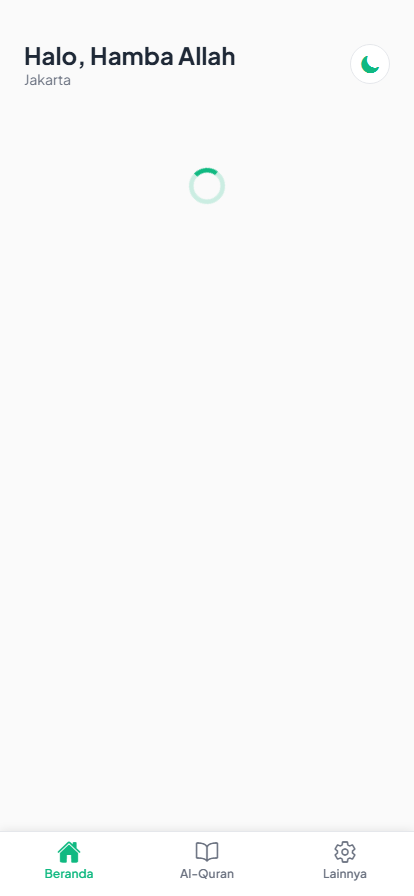
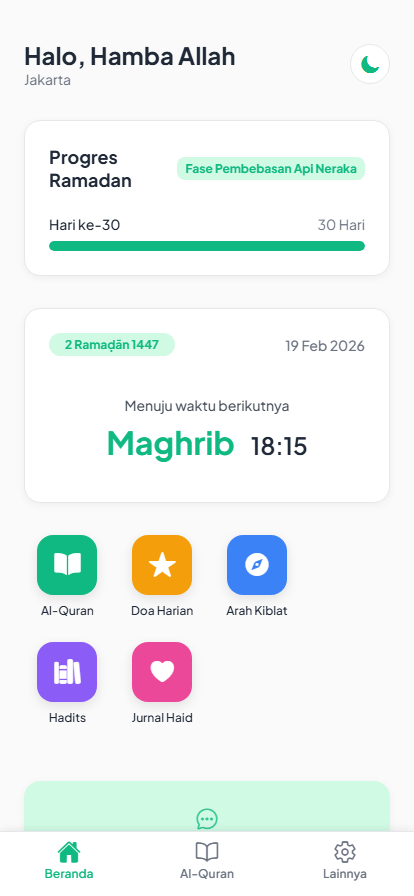
docs: update README layout and improve reliability of home screenshot capture script

diff --git a/screenshot.js b/screenshot.js
@@ -13,7 +13,11 @@ const fs = require('fs');
 
   console.log('Navigating to Home...');
   await page.goto('http://localhost:8081/');
-  await page.waitForTimeout(3000);
+  try {
+    await page.waitForSelector('text=Imsak', { timeout: 15000 });
+  } catch (e) {
+    console.log('Timeout waiting for Imsak, taking screenshot anyway');
+  }
   await page.screenshot({ path: 'assets/screenshots/home.png' });
 
   console.log('Navigating to Quran...');

diff --git a/README.md b/README.md
@@ -18,44 +18,21 @@
 
 ## Preview
 
-Below are the screenshots showcasing the application's clean, modern, and accessible user interface.
-
-### Home & Dashboard
-The main dashboard provides dynamic prayer schedules based on the user's location, a progress tracker for Ramadan, and quick action menus for primary features.
-
 <p align="center">
-  <img src="./assets/screenshots/home.png" width="300" alt="Home Dashboard">
+  <img src="./assets/screenshots/home.png" width="18%" alt="Home Dashboard">
+  <img src="./assets/screenshots/quran.png" width="18%" alt="Digital Al-Quran">
+  <img src="./assets/screenshots/doa.png" width="18%" alt="Daily Prayers">
+  <img src="./assets/screenshots/haid.png" width="18%" alt="Menstruation Tracker">
+  <img src="./assets/screenshots/settings.png" width="18%" alt="Advanced Settings">
 </p>
 
-### Digital Al-Quran
-A beautifully formatted Quran reader fetching real-time data from equran.id API, featuring customizable Arabic font sizes for better readability.
+### Features Overview
 
-<p align="center">
-  <img src="./assets/screenshots/quran.png" width="300" alt="Digital Al-Quran">
-</p>
-
-### Daily Prayers & Selected Hadith
-An offline-first collection of essential daily prayers and selected Hadith, loading instantly via local JSON data.
-
-<p align="center">
-  <img src="./assets/screenshots/doa.png" width="300" alt="Daily Prayers">
-  &nbsp;&nbsp;&nbsp;&nbsp;
-  <img src="./assets/screenshots/hadits.png" width="300" alt="Selected Hadith">
-</p>
-
-### Menstruation Tracker (Jurnal Haid)
-An inclusive feature designed to help women track missed fasting days (Qadha) and discover alternative acts of worship during their cycle.
-
-<p align="center">
-  <img src="./assets/screenshots/haid.png" width="300" alt="Menstruation Tracker">
-</p>
-
-### Advanced Settings
-A highly customizable user experience allowing users to toggle Dark Mode, adjust Arabic font sizes, and modify prayer calculation parameters.
-
-<p align="center">
-  <img src="./assets/screenshots/settings.png" width="300" alt="Advanced Settings">
-</p>
+- **Home & Dashboard:** Dynamic prayer schedules based on the user's location, a progress tracker for Ramadan, and quick action menus for primary features.
+- **Digital Al-Quran:** A beautifully formatted Quran reader fetching real-time data from equran.id API, featuring customizable Arabic font sizes for better readability.
+- **Daily Prayers & Selected Hadith:** An offline-first collection of essential daily prayers and selected Hadith, loading instantly via local JSON data.
+- **Menstruation Tracker (Jurnal Haid):** An inclusive feature designed to help women track missed fasting days (Qadha) and discover alternative acts of worship during their cycle.
+- **Advanced Settings:** A highly customizable user experience allowing users to toggle Dark Mode, adjust Arabic font sizes, and modify prayer calculation parameters.
 
 ---
 
